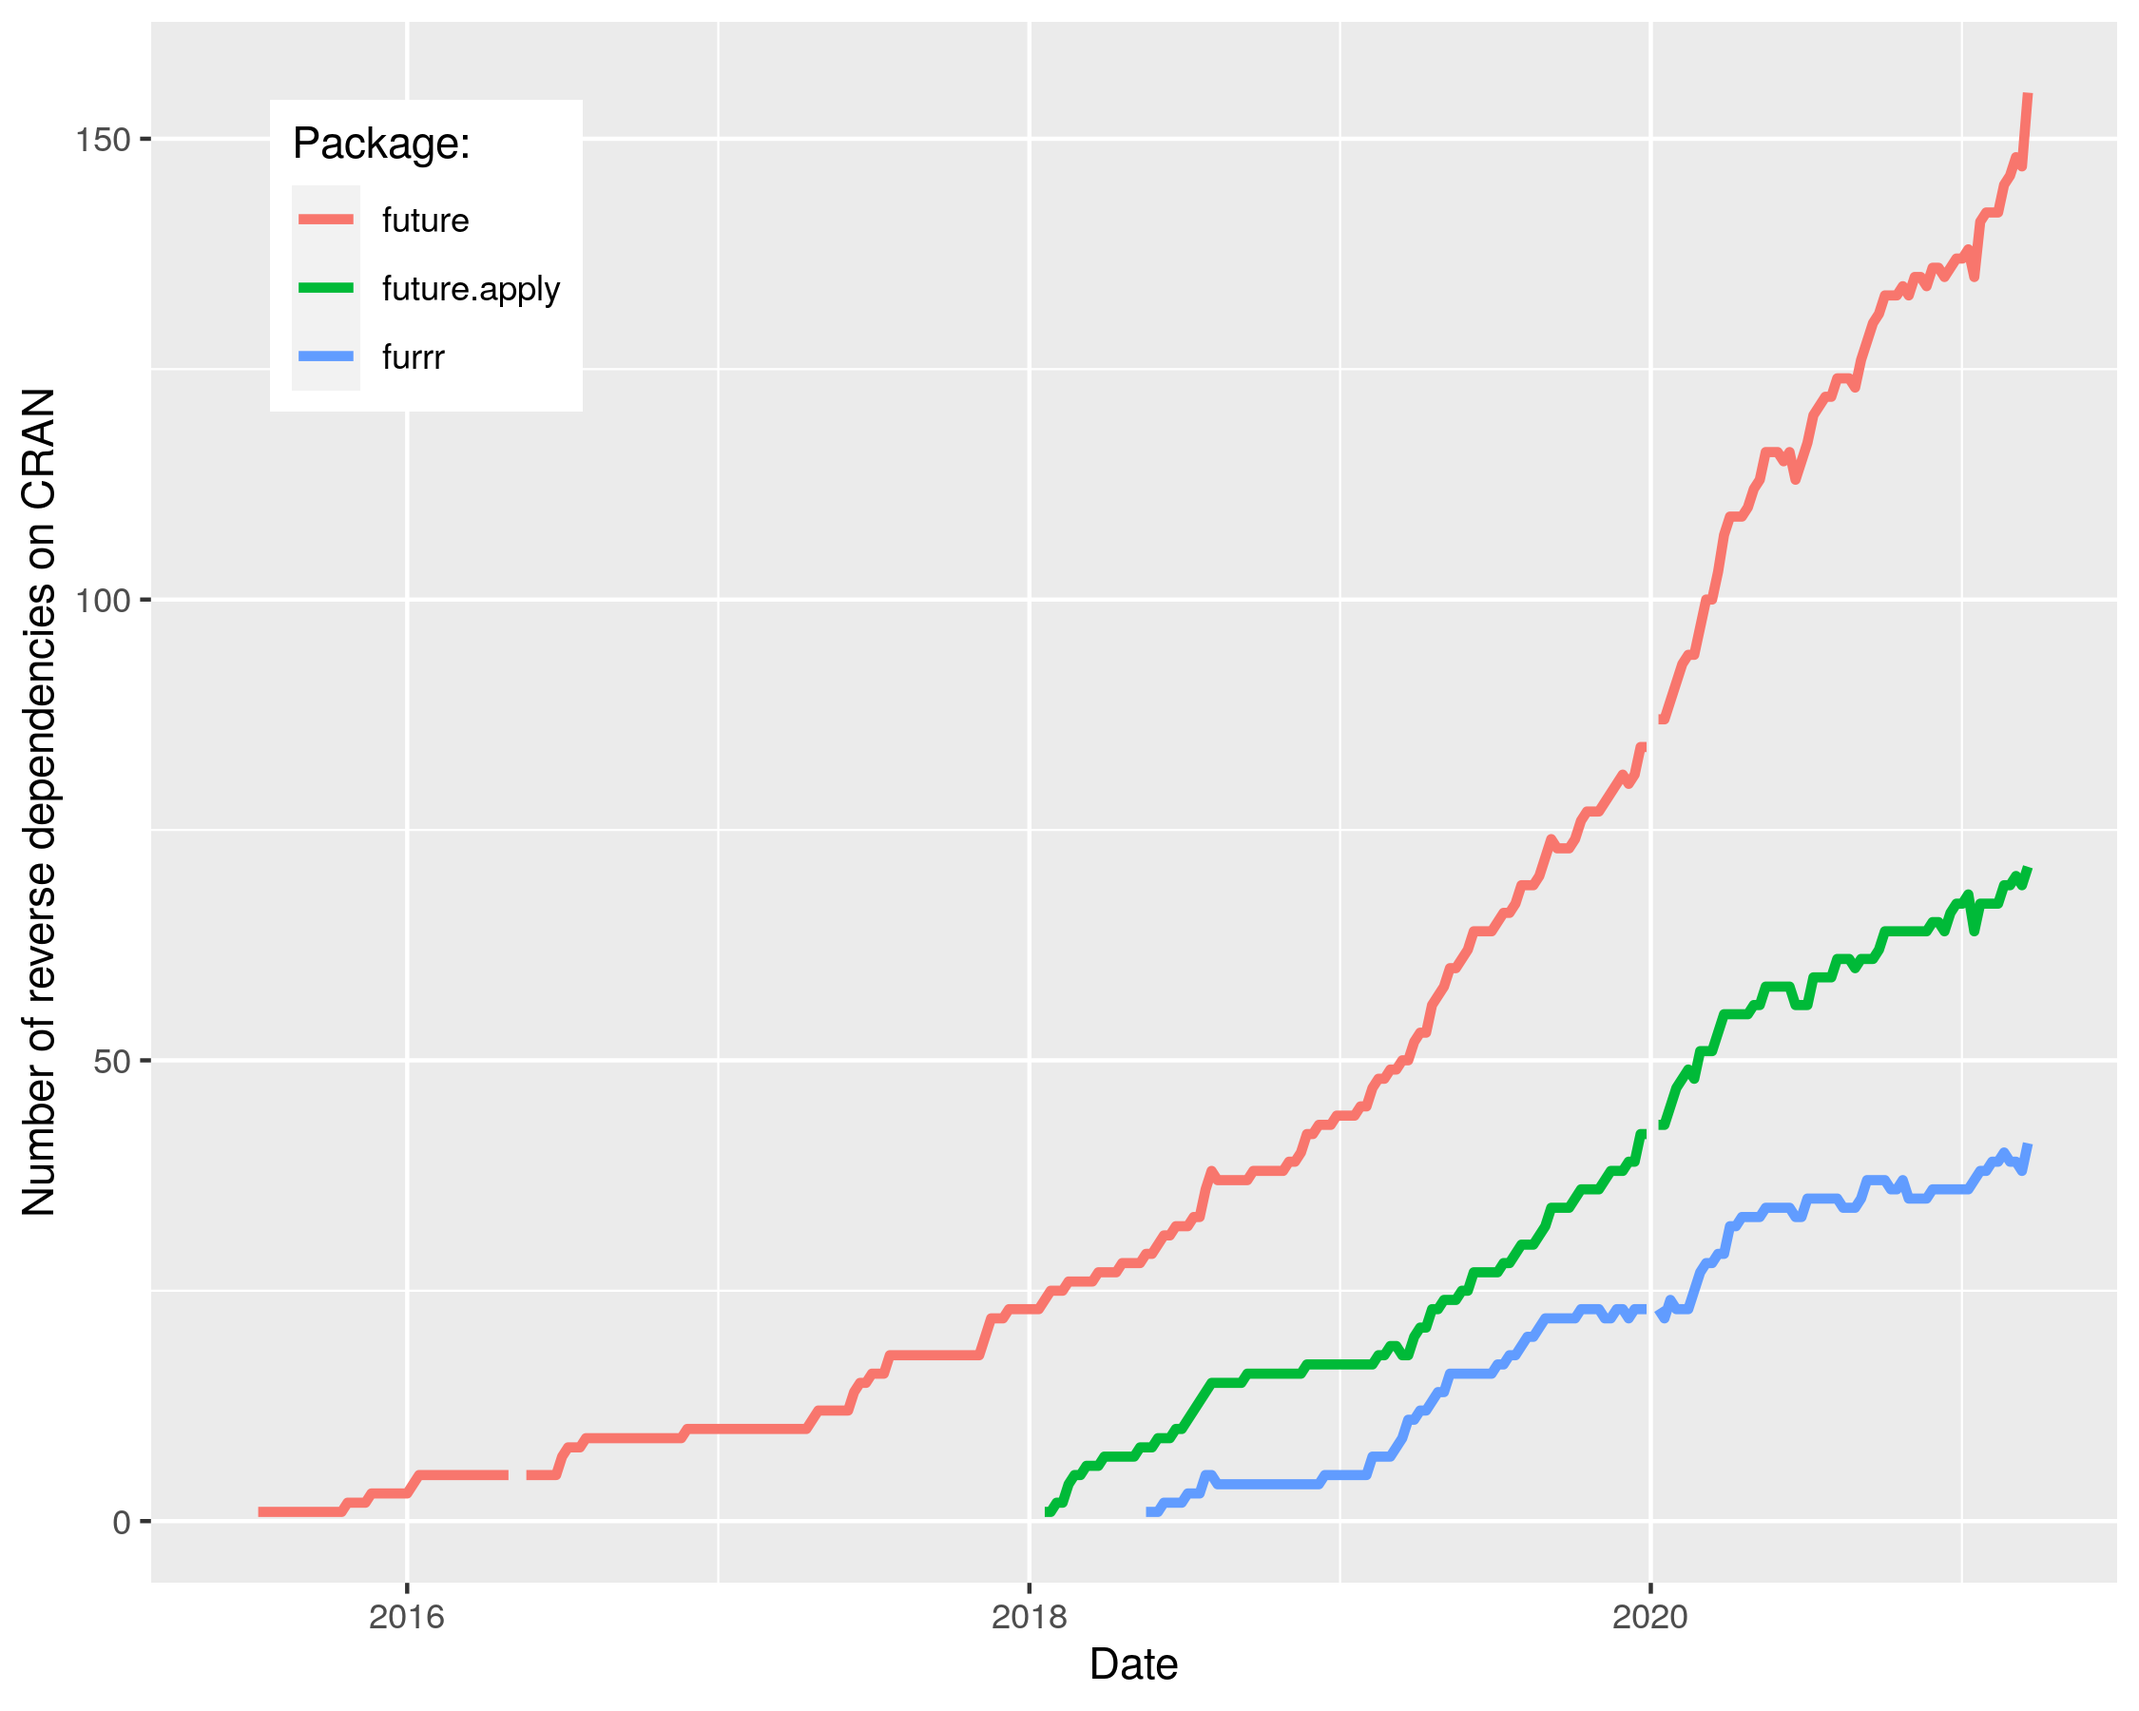
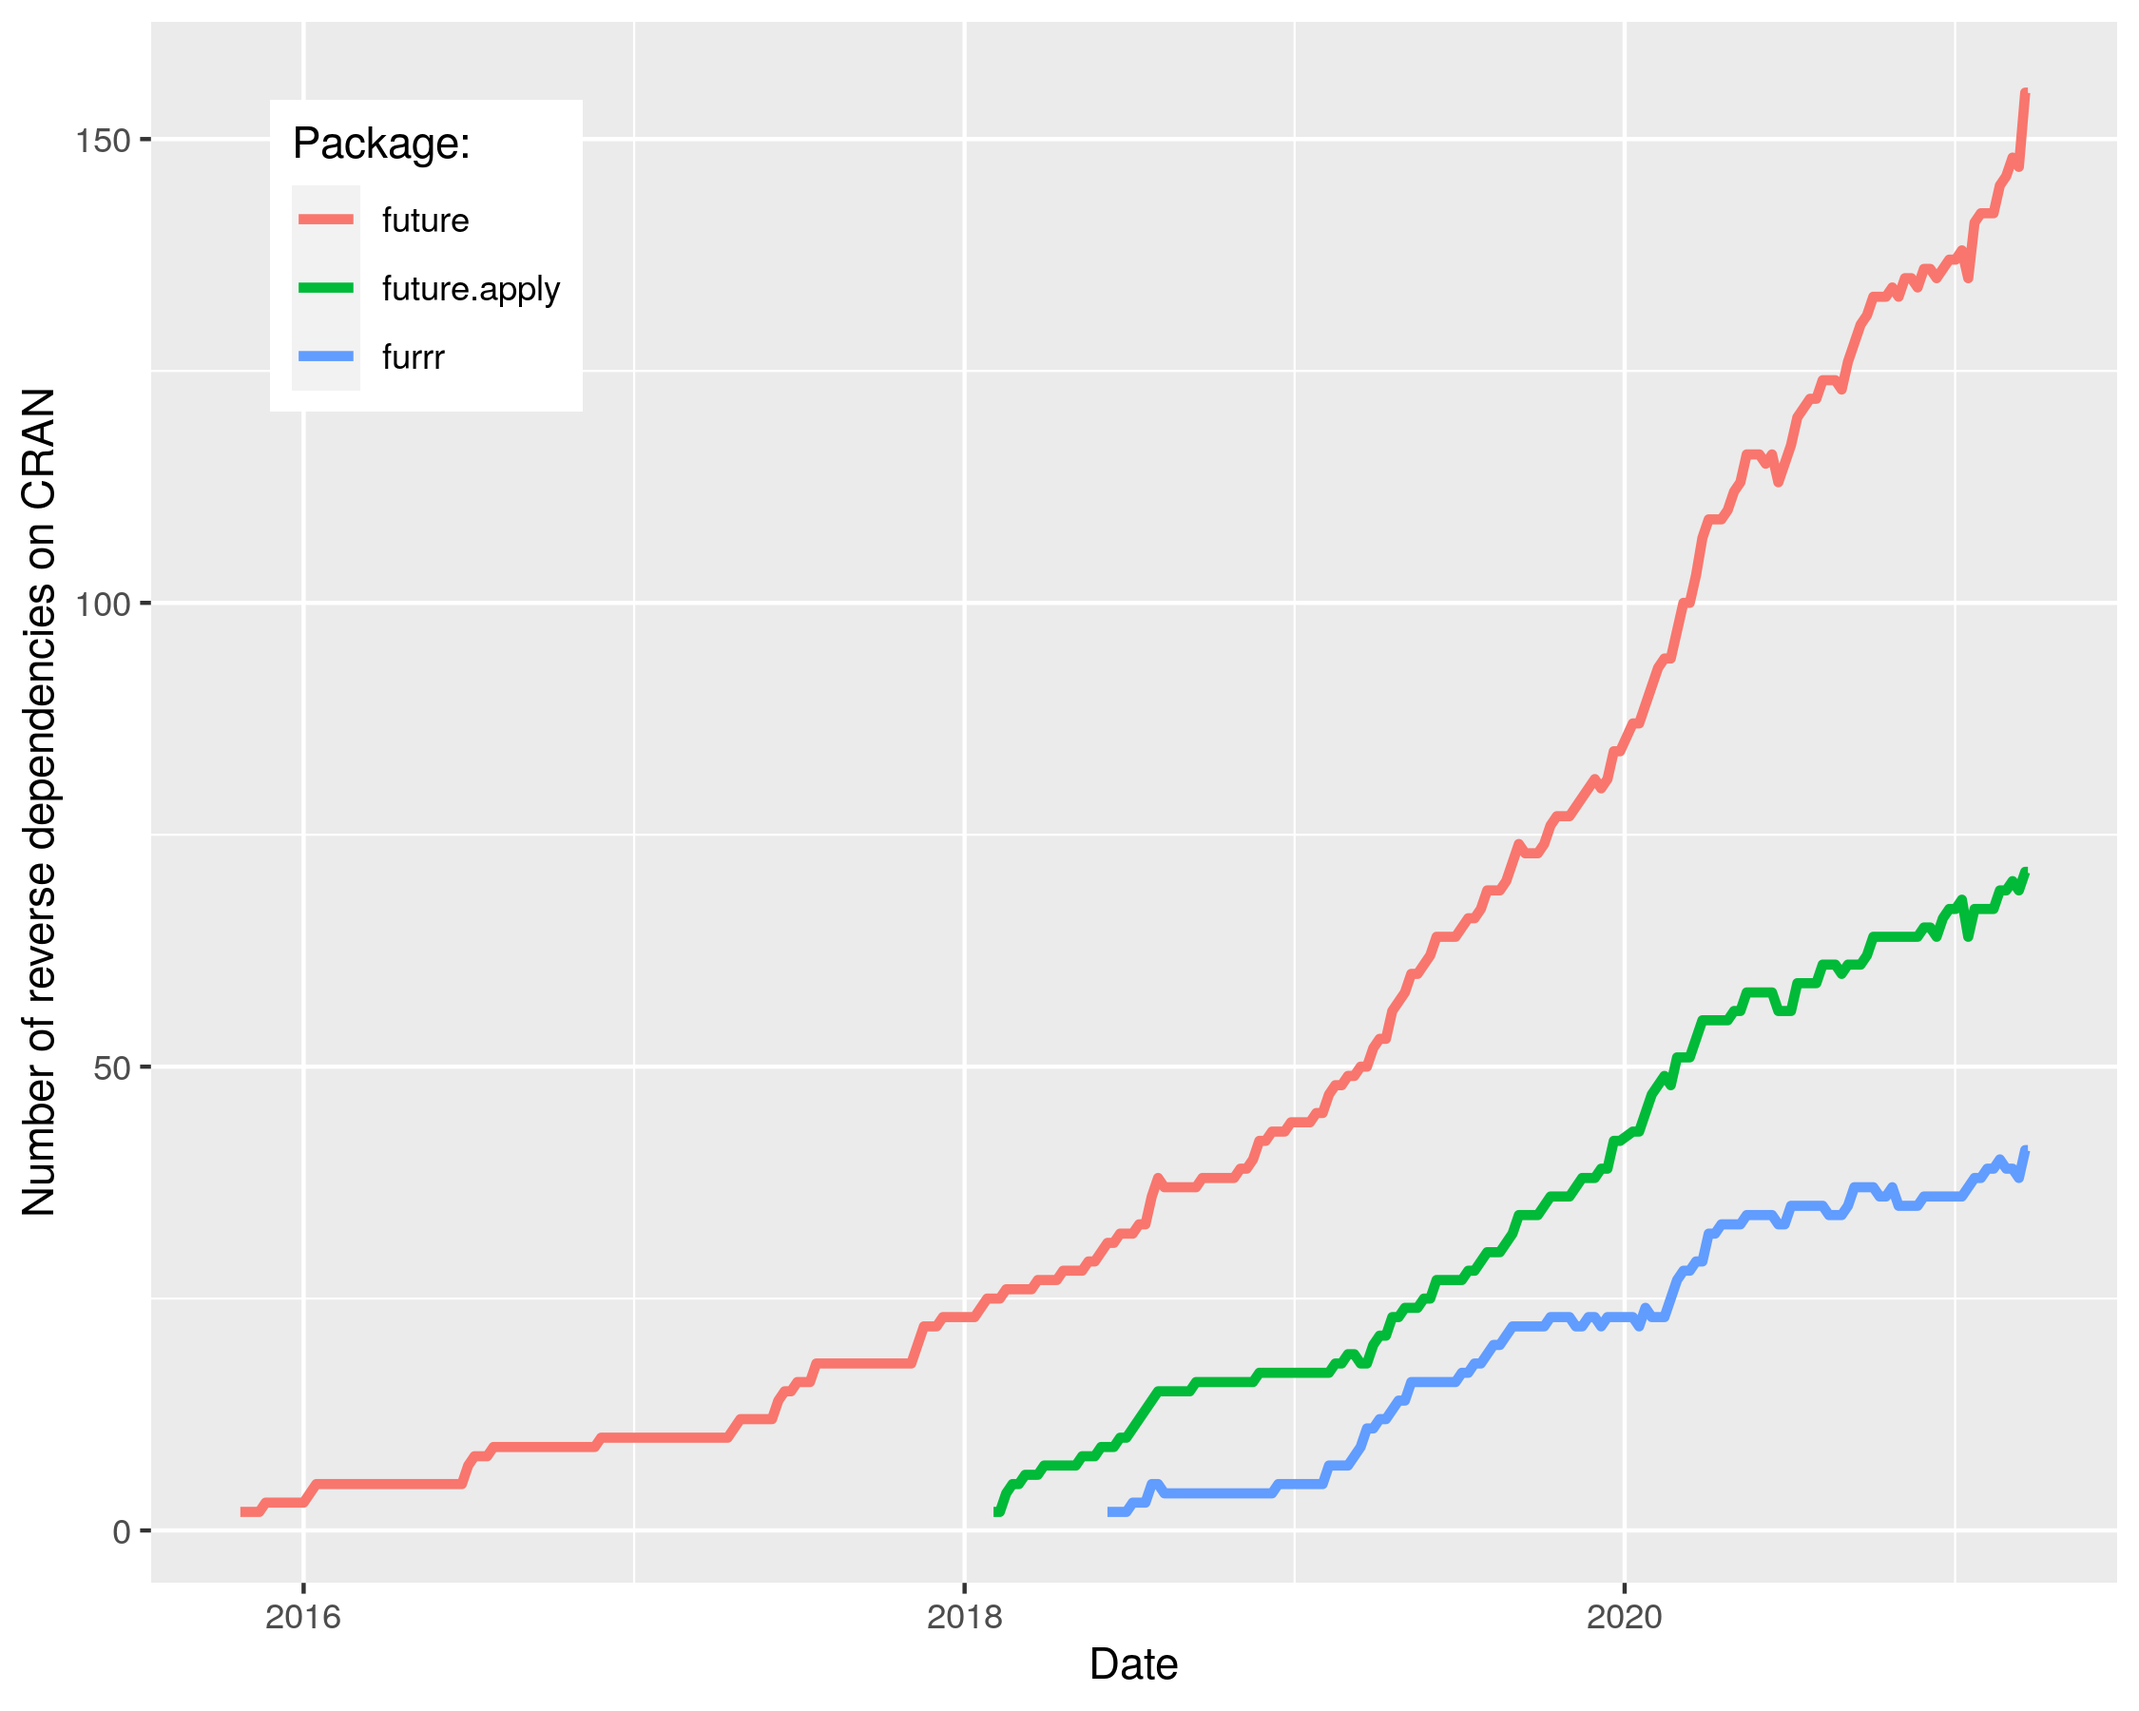
Include 'foreach' as a reference

diff --git a/docs/index.md b/docs/index.md
@@ -26,9 +26,17 @@
 
 # Uptake of future
 
+<div style="width: 100%; margin-bottom: 3ex;">
 <center>
-<div style="width: 80%; text-align: left;" markdown="1">
-<img src="figures/revdep_over_time_on_CRAN.png" alt="Reverse dependencies on CRAN over time for core future packages"/><br>
-Figure: Number of CRAN packages that depend on <strong>future</strong>, <strong>future.apply</strong>, and <strong>furrr</strong> over time since the first release in June 2015.  Because historical data for reverse dependencies on Bioconductor are hard to track down, they are currently not reported in this graph.
-</div>
+<img src="figures/downloads_over_time_on_CRAN.png" alt="Download ranks on CRAN (four-week averages)" style="width: 58%;"/>
 </center>
+<em>Figure: The download percentile ranks for <strong>future</strong>, <strong>future.apply</strong>, <strong>furrr</strong>, and <strong>foreach</strong> average every four weeks.  The data is based on the RStudio CRAN mirror logs.</em>
+</div>
+
+<div style="width: 100%; margin-bottom: 3ex;">
+<center>
+<img src="figures/revdep_over_time_on_CRAN.png" alt="Reverse dependencies on CRAN over time for core future packages" style="width:50%"/><img src="figures/revdep_over_time_on_CRAN-log.png" alt="Reverse dependencies on CRAN over time for core future packages" style="width:50%"/>
+</center> 
+<em>Figure: Number of CRAN packages that depend on <strong>future</strong>, <strong>future.apply</strong>, <strong>furrr</strong>, and <strong>foreach</strong> over time since the first release of <strong>future</strong> in June 2015.  Left: The package counts on the linear scale without <strong>foreach</strong>.  Right: The same data on the logarithmic scale to fit also <strong>foreach</strong>.  (Because historical data for reverse dependencies on Bioconductor are hard to track down, they are currently not reported in this graph.)</em>
+</div>
+
